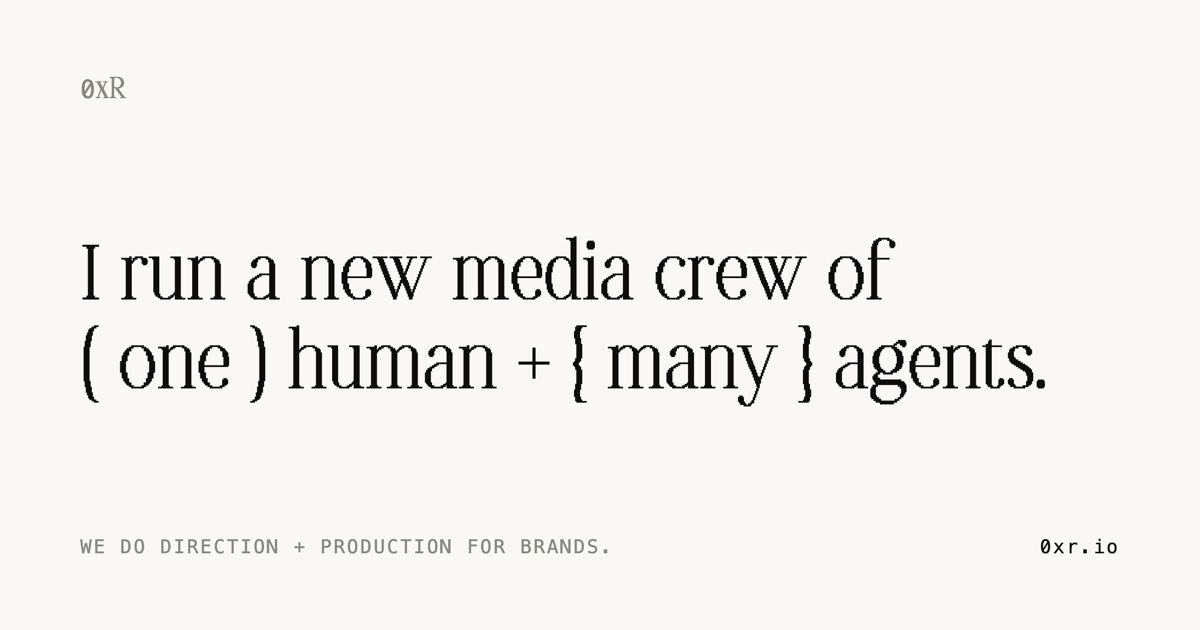
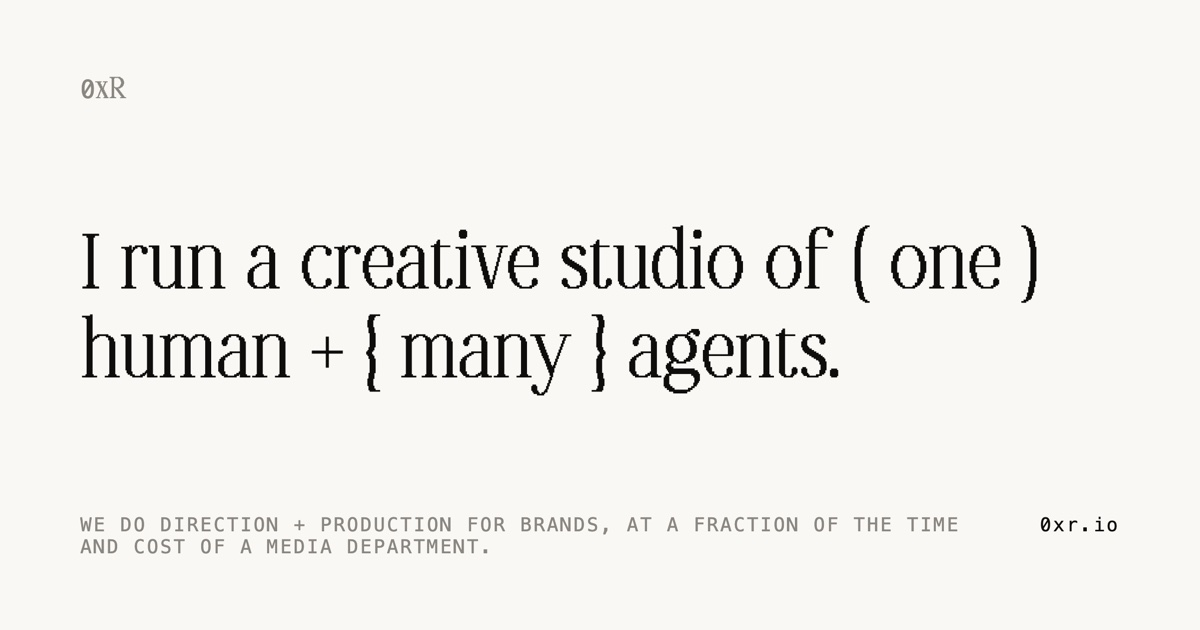
feat: creative studio is the category, new media is the thesis
"I run a creative studio of ( one ) human + { many } agents" on the hero, the
who page and the work entry; creative studio in the title tag, the descriptions
and the index card. New media moves from the name to the argument: the what
page is unchanged, and the hero's last clause now says "a media department",
naming the thing the studio is priced against.

diff --git a/index.html b/index.html
@@ -3,22 +3,22 @@
 <head>
 <meta charset="utf-8">
 <meta name="viewport" content="width=device-width, initial-scale=1">
-<title>0xR / new media</title>
+<title>0xR / creative studio</title>
 <meta name="author" content="Rodrigo Rivas Yassin">
-<meta name="description" content="A new media crew of one human and many agents. We do direction + production for brands, at a fraction of the time and cost of a department.">
+<meta name="description" content="A creative studio of one human and many agents. We do direction + production for brands, at a fraction of the time and cost of a media department.">
 <link rel="canonical" href="https://0xr.io/">
 <link rel="icon" href="favicon.png" type="image/png">
 <meta property="og:type" content="website">
 <meta property="og:site_name" content="0xR">
-<meta property="og:title" content="0xR / new media">
-<meta property="og:description" content="A new media crew of one human and many agents. We do direction + production for brands, at a fraction of the time and cost of a department.">
+<meta property="og:title" content="0xR / creative studio">
+<meta property="og:description" content="A creative studio of one human and many agents. We do direction + production for brands, at a fraction of the time and cost of a media department.">
 <meta property="og:url" content="https://0xr.io/">
 <meta property="og:image" content="https://0xr.io/media/card-index.jpg">
 <meta property="og:image:width" content="1200">
 <meta property="og:image:height" content="630">
 <meta name="twitter:card" content="summary_large_image">
-<meta name="twitter:title" content="0xR / new media">
-<meta name="twitter:description" content="A new media crew of one human and many agents. We do direction + production for brands, at a fraction of the time and cost of a department.">
+<meta name="twitter:title" content="0xR / creative studio">
+<meta name="twitter:description" content="A creative studio of one human and many agents. We do direction + production for brands, at a fraction of the time and cost of a media department.">
 <meta name="twitter:image" content="https://0xr.io/media/card-index.jpg">
 <link rel="preconnect" href="https://fonts.googleapis.com">
 <link rel="preconnect" href="https://fonts.gstatic.com" crossorigin>
@@ -240,8 +240,8 @@
     <header class="hero">
   <div class="wrap">
     <p class="hello" data-scramble="mount" data-delay="0">Hello world, I'm Rodrigo Rivas&nbsp;Yassin.</p>
-    <h1 data-scramble="mount" data-delay="60">I run a new media crew of (&nbsp;one&nbsp;) human + {&nbsp;many&nbsp;}&nbsp;agents.</h1>
-    <p class="sub">We do direction + production for brands, at a fraction of the time and cost of a&nbsp;department.</p>
+    <h1 data-scramble="mount" data-delay="60">I run a creative studio of (&nbsp;one&nbsp;) human + {&nbsp;many&nbsp;}&nbsp;agents.</h1>
+    <p class="sub">We do direction + production for brands, at a fraction of the time and cost of a media&nbsp;department.</p>
   </div>
     <div class="stage" id="stage" aria-hidden="true">
       <canvas data-crew="rodrigo"></canvas>

diff --git a/work.html b/work.html
@@ -145,11 +145,11 @@
       <details class="entry" open>
         <summary data-scramble-host>
           <span class="idx">01</span>
-          <div><h2 data-scramble="hover" data-delay="0">0xR</h2><span class="role" data-scramble>New media, for clients</span></div>
+          <div><h2 data-scramble="hover" data-delay="0">0xR</h2><span class="role" data-scramble>Creative studio, for clients</span></div>
           <span class="when">2026 &ndash; now</span>
         </summary>
         <div class="body">
-          <p>A new media crew of one human and many agents. I run the story on every surface it travels
+          <p>A creative studio of one human and many agents. I run the story on every surface it travels
           on: brand, film, comms and product.</p>
           <p class="impact">Clients: All&eacute; Studios, Madrid streetwear,
           the MID 90'S capsule.</p>

diff --git a/who.html b/who.html
@@ -94,7 +94,7 @@
         <h1 class="lede" data-scramble="mount" data-delay="60">I'm Rodrigo Rivas&nbsp;Yassin.</h1>
         <canvas class="fig" data-crew="rodrigo" aria-hidden="true"></canvas>
 
-      <p>I run a new media crew of (&nbsp;one&nbsp;) human and {&nbsp;many&nbsp;} agents.</p>
+      <p>I run a creative studio of (&nbsp;one&nbsp;) human and {&nbsp;many&nbsp;} agents.</p>
 
       <p>Cofounder and CMO of Sail, previously Fungi.</p>
 
